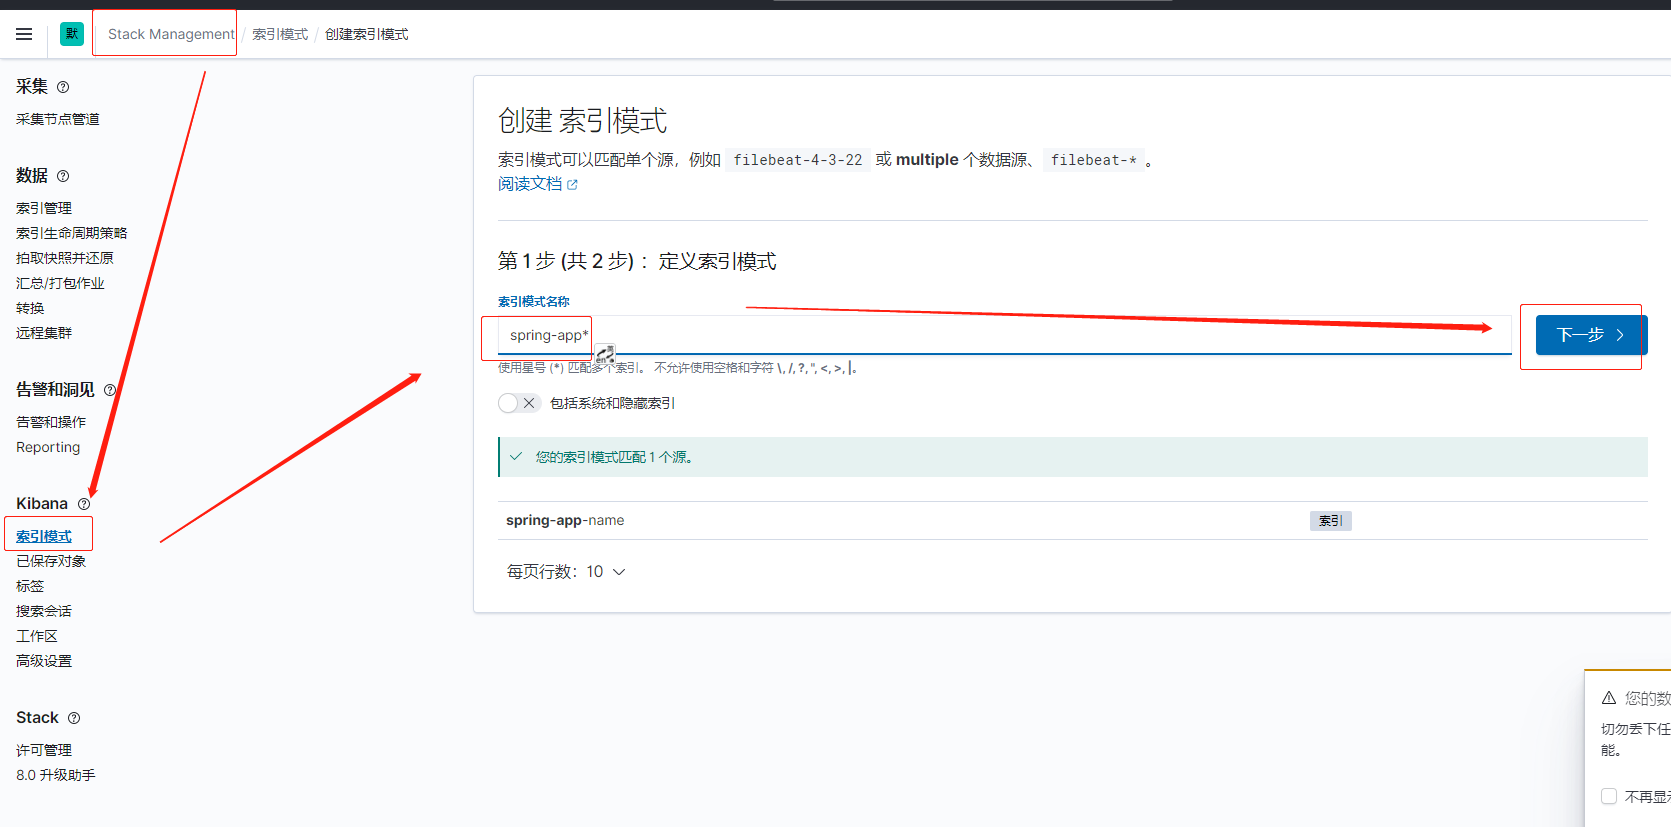
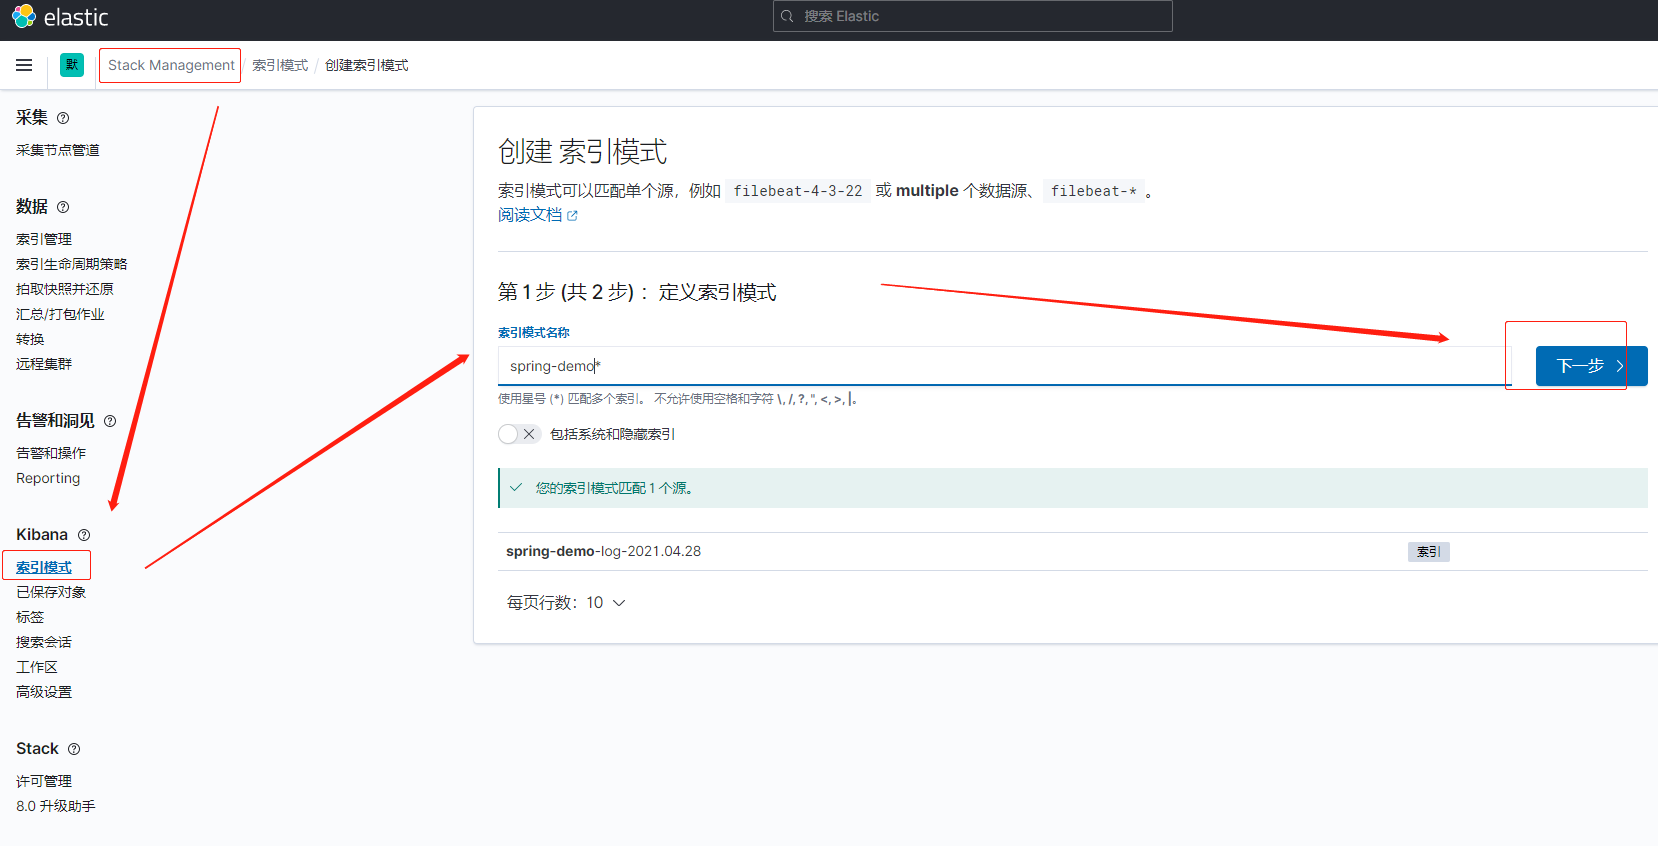
搭建elk-update

diff --git a/source/_posts/Centos7搭建ELK与Springboot整合.md b/source/_posts/Centos7搭建ELK与Springboot整合.md
@@ -141,7 +141,7 @@ input {
 output{
   elasticsearch { 
      hosts => ["localhost:9200"] # 改成你elasticsearch的地址
-     index => "%{[spring-app-name]}-%{+YYYY.MM.dd}" #用一个项目名称来做索引，注意一点：springappname 这个我用大写，会报错，所以记得小写
+     index => "%{[app-name]}-%{+YYYY.MM.dd}" #用一个项目名称来做索引，app-name 和springboot的日志配置相关。
   }
   stdout { codec => rubydebug }
 }
@@ -175,14 +175,27 @@ output{
 <configuration>
   <appender name="LOGSTASH" class="net.logstash.logback.appender.LogstashTcpSocketAppender">
     <destination>localhost:4567</destination>
-    <encoder charset="UTF-8" class="net.logstash.logback.encoder.LogstashEncoder" />
+    <encoder charset="UTF-8" class="net.logstash.logback.encoder.LogstashEncoder" >
+	 <!-- app-name和logstash配置的name一致 -->
+      <customFields>{"app-name":"spring-demo-log"}</customFields>
+    </encoder>
   </appender>
 
-  <include resource="org/springframework/boot/logging/logback/base.xml"/>
-
+  <property name="LOG_HOME" value="/opt/logs" />
+  <appender name="STDOUT" class="ch.qos.logback.core.ConsoleAppender"> 
+    <encoder>
+        <pattern>%d{yyyy-MM-dd HH:mm:ss} [%level] - %m%n</pattern>
+    </encoder>
+    <filter class="ch.qos.logback.classic.filter.LevelFilter">
+      <level>DEBUG</level>
+      <onMatch>ACCEPT</onMatch>
+      <onMismatch>ACCEPT</onMismatch>
+    </filter>
+  </appender>
+  
   <root level="INFO">
     <appender-ref ref="LOGSTASH" />
-    <appender-ref ref="CONSOLE" />
+    <appender-ref ref="STDOUT" />
   </root>
 
 </configuration>
